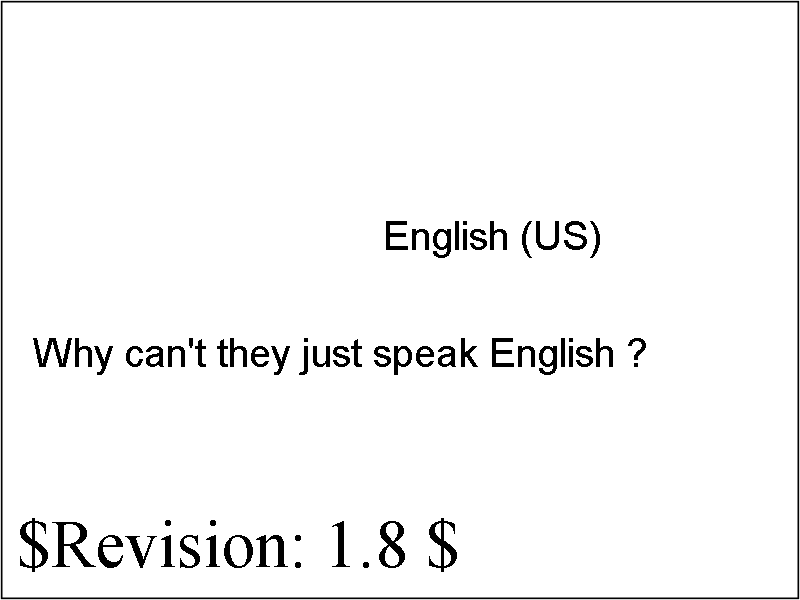
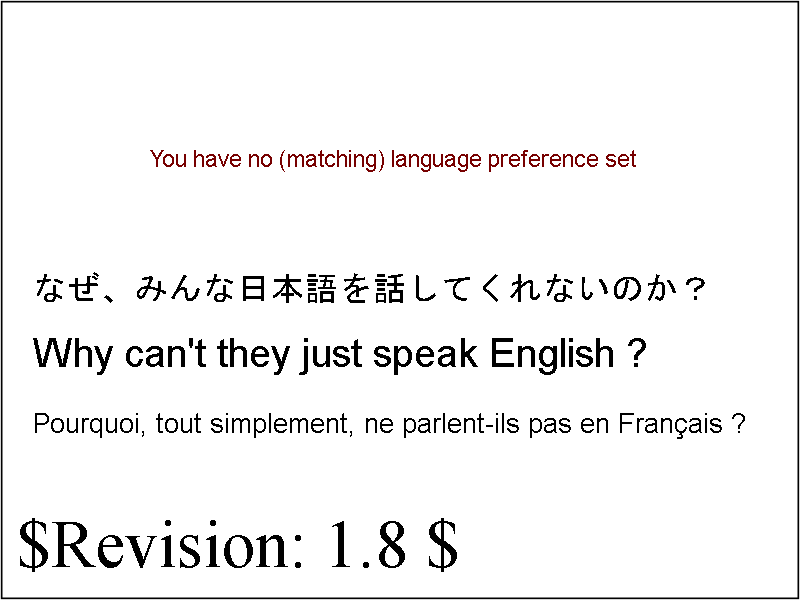
Fix SVG systemLanguage conditional processing
The algorithm that performs the test between browser language preference
and the systemLanguage value has been modified
to implement a language-tag match based on the prefix,
making it consistent with BCP 47's basic filter operation and
as specified in the SVG 1.1 spec.

The previous behavior was:

- Tests whether the value of the attribute (e.g., "en-us") is a prefix
of the user preferred language (e.g., "en")
(which would evaluate to false)

The test was modified to compare in the opposite manner,
now user preferred language must be a prefix of the value.

- If the language tag length was not 2, the language tag
was not matched, (e.g. It did not match "en-us" to "en-us").
This check has been removed.

- The algorithm did not check for a trailing hyphen ("-").
We do not want langtag "it" matching langtag "ita",
but it is ok for "it" to match "it-it".
Now it does.

------------

The algorithm that performs the test between browser language preference
and the systemLanguage value has been modified
to implement a case insensitive language-tag match:

"en" matches "EN".

The previous behavior was case sensitive.

------------

Add Luca Di Domenico to AUTHORS

------------

Bug: 872378, 869440
Cq-Include-Trybots: luci.chromium.try:linux_layout_tests_slimming_paint_v2;master.tryserver.blink:linux_trusty_blink_rel
Commit-Queue: Fredrik Söderquist <fs@opera.com>
Cr-Original-Commit-Position: refs/heads/master@{#587592}
[…]

diff --git a/WebKit/LayoutTests/svg/dom/systemLanguage-langtag-match-prefix.html b/WebKit/LayoutTests/svg/dom/systemLanguage-langtag-match-prefix.html
@@ -1,0 +1,34 @@
+<!DOCTYPE HTML>
+<title>The "systemLanguage" match the langtag of which the user's preferred language is prefix </title>
+<link rel="help" href="https://www.w3.org/TR/SVG2/struct.html#ConditionalProcessingSystemLanguageAttribute">
+<script src="../../resources/testharness.js"></script>
+<script src="../../resources/testharnessreport.js"></script>
+<svg id="mysvg">
+</svg>
+<script>
+test(() => {
+
+	internals.setUserPreferredLanguages(["en"]);
+
+	var text1 = document.createElementNS('http://www.w3.org/2000/svg', 'text');
+	text1.setAttribute('systemLanguage', 'en-US');
+	text1.textContent = 'English-US';
+
+	var mysvg = document.getElementById("mysvg");
+	mysvg.appendChild(text1);
+
+	assert_greater_than(text1.getBoundingClientRect().width, 0);
+
+	internals.setUserPreferredLanguages(["it"]);
+
+	mysvg.removeChild(text1);
+
+	text1.setAttribute('systemLanguage', 'ita');
+
+	mysvg.appendChild(text1);
+
+	assert_equals(text1.getBoundingClientRect().width, 0);
+
+});
+
+</script>

diff --git a/WebKit/LayoutTests/svg/dom/systemLanguage-case-insensitive.html b/WebKit/LayoutTests/svg/dom/systemLanguage-case-insensitive.html
@@ -1,0 +1,31 @@
+<!DOCTYPE HTML>
+<title>The "systemLanguage" attribute matching is case insensitive (eg. "en" matches "EN")</title>
+<link rel="help" href="https://www.w3.org/TR/SVG2/struct.html#ConditionalProcessingSystemLanguageAttribute">
+<script src="../../resources/testharness.js"></script>
+<script src="../../resources/testharnessreport.js"></script>
+<svg id="mysvg">
+</svg>
+<script>
+test(() => {
+
+	internals.setUserPreferredLanguages(["en"]);
+	var text1 = document.createElementNS('http://www.w3.org/2000/svg', 'text');
+	text1.setAttribute('systemLanguage', 'en');
+	text1.textContent = 'English-US';
+
+	var mysvg = document.getElementById("mysvg");
+	mysvg.appendChild(text1);
+
+	assert_greater_than(text1.getBoundingClientRect().width, 0);
+
+	mysvg.removeChild(text1);
+
+	text1.setAttribute('systemLanguage', 'EN');
+
+	mysvg.appendChild(text1);
+
+	assert_greater_than(text1.getBoundingClientRect().width, 0);
+
+});
+
+</script>

diff --git a/blink/renderer/core/svg/svg_tests.cc b/blink/renderer/core/svg/svg_tests.cc
@@ -53,11 +53,18 @@ SVGStringListTearOff* SVGTests::systemLanguage() {
   return system_language_->TearOff();
 }
 
+static bool IsLangTagPrefix(const String& lang_tag, const String& language) {
+  if (!lang_tag.StartsWithIgnoringASCIICase(language))
+    return false;
+  return lang_tag.length() == language.length() ||
+         lang_tag[language.length()] == '-';
+}
+
 bool SVGTests::IsValid() const {
   if (system_language_->IsSpecified()) {
     bool match_found = false;
-    for (const auto& value : system_language_->Value()->Values()) {
-      if (value.length() == 2 && DefaultLanguage().StartsWith(value)) {
+    for (const auto& lang_tag : system_language_->Value()->Values()) {
+      if (IsLangTagPrefix(lang_tag, DefaultLanguage())) {
         match_found = true;
         break;
       }
